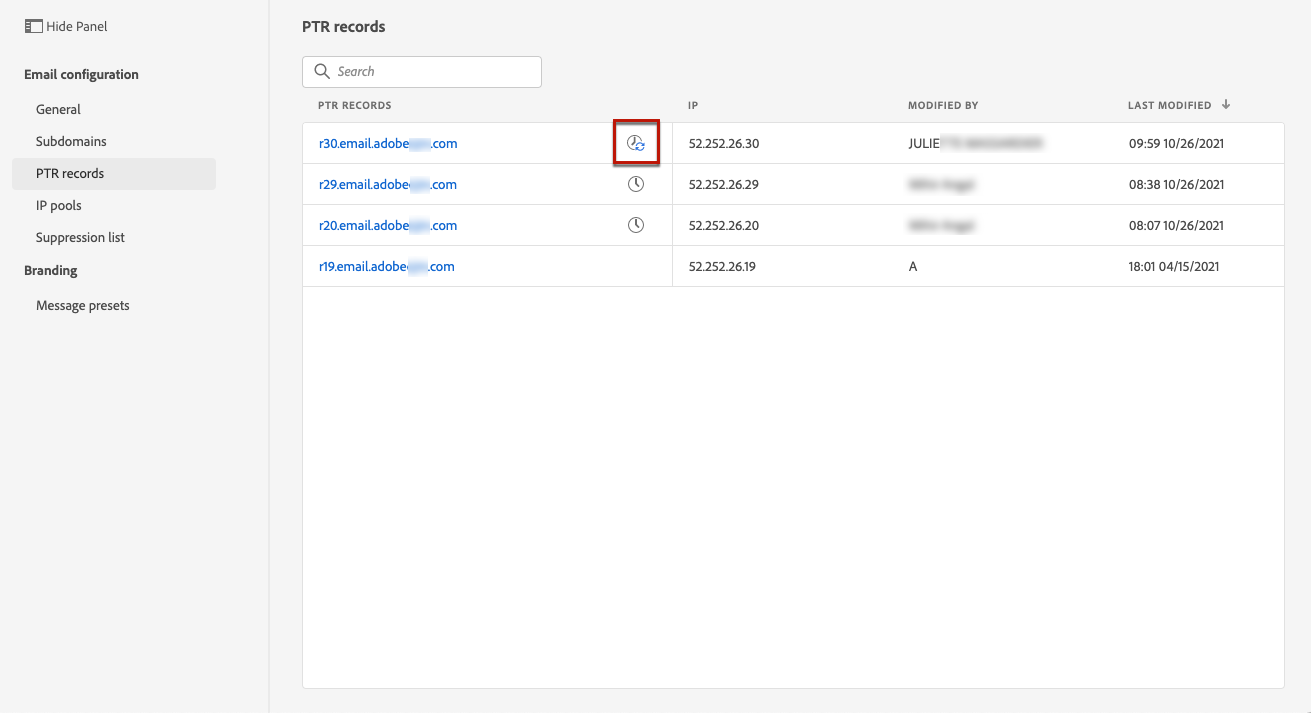
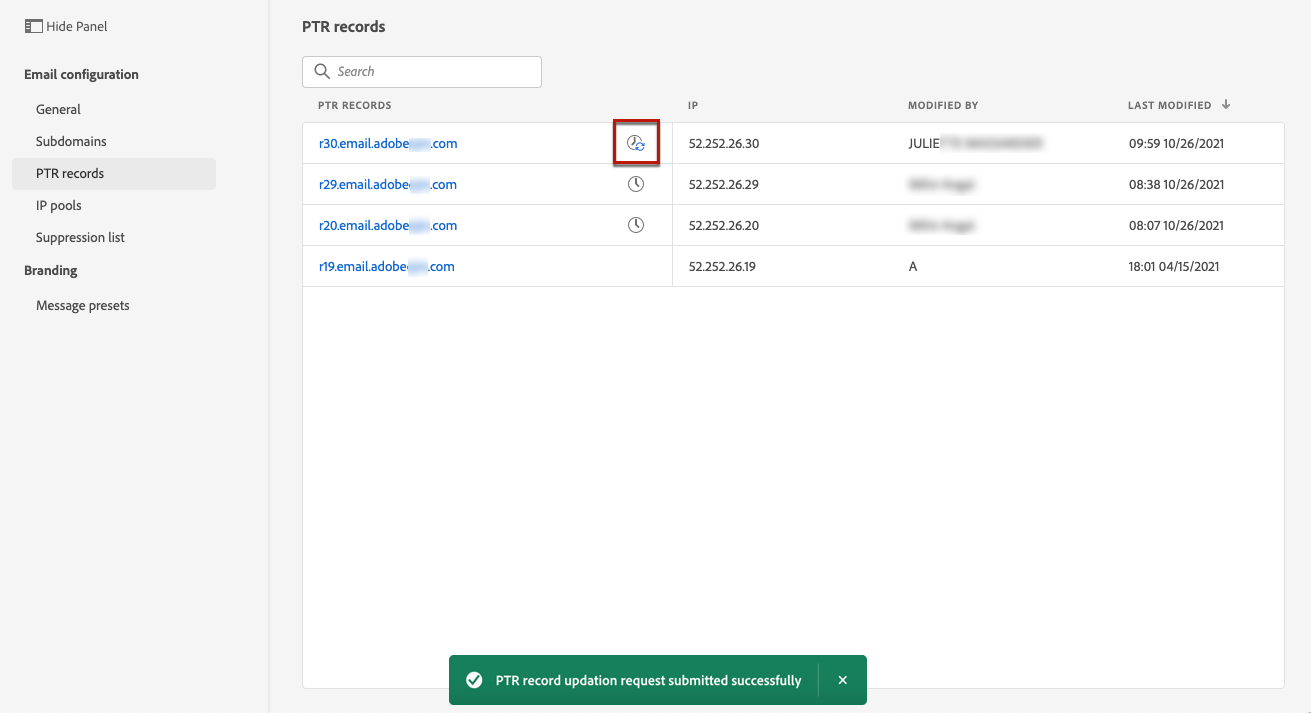
PTR updates

Changed region(s): [[0.3356, 0.8936, 0.6712, 0.986]]

diff --git a/help/using/configuration/ptr-records.md b/help/using/configuration/ptr-records.md
@@ -78,7 +78,7 @@ To edit a PTR record with a subdomain that is delegated to Adobe using the [CNAM
 
 ## Check PTR record update details
 
-An **[!UICONTROL Updating]** icon displays next to the name of the PTR record in the list.
+A **[!UICONTROL Processing]** icon displays next to the name of the PTR record in the list.
 
 ![](../assets/ptr-record-updating.png)
 
@@ -94,9 +94,9 @@ You can see information such as the update status, and the requested changes.
 
 A PTR record update can have the following statuses:
 
-* **[!UICONTROL Processing]**: The PTR record update has been submitted and is going through a verification process.
-* **[!UICONTROL Success]**: The updated PTR record has been verified and the new subdomain is now associated with the IP address.
-* **[!UICONTROL Failed]**: One or several checks have failed during the PTR record update verification.
+* ![](../assets/do-not-localize/ptr-record-processing.png) **[!UICONTROL Processing]**: The PTR record update has been submitted and is going through a verification process.
+* ![](../assets/do-not-localize/ptr-record-success.png) **[!UICONTROL Success]**: The updated PTR record has been verified and the new subdomain is now associated with the IP address.
+* ![](../assets/do-not-localize/ptr-record-failed.png) **[!UICONTROL Failed]**: One or several checks have failed during the PTR record update verification.
 
 ### Processing
 
